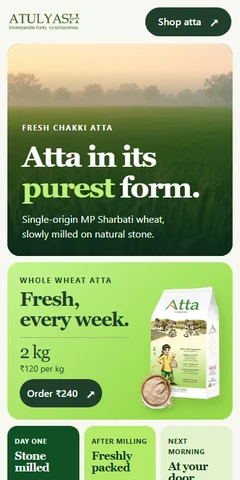
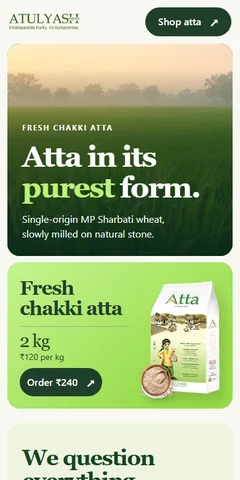
Simplify Bento Alt around the pack, Veer and delivery

Changed region(s): [[0.0292, 0.5625, 0.9917, 1.0], [0.7, 0.9062, 0.875, 1.0]]

diff --git a/opening/17-fresh-bento-alt/index.html b/opening/17-fresh-bento-alt/index.html
@@ -4,16 +4,22 @@
 <meta charset="utf-8"><meta name="viewport" content="width=device-width,initial-scale=1">
 <title>Fresh Bento Alt | Atulyash</title><link rel="icon" href="data:,"><link rel="stylesheet" href="style.css">
 </head><body><div class="shell">
-<header><a class="brand" href="#top"><img src="../shared/wordmark.png" alt="Atulyash"></a><nav aria-label="Main navigation"><a href="#making">Our process</a><a href="#story">Our story</a></nav><a class="order" href="#pack">Shop atta <span aria-hidden="true">↗</span></a></header>
+<header><a class="brand" href="#top"><img src="../shared/wordmark.png" alt="Atulyash"></a><nav aria-label="Main navigation"><a href="#making" onclick="document.getElementById('making').open = true">Our process</a><a href="#story">Our story</a></nav><a class="order" href="#pack">Shop atta <span aria-hidden="true">↗</span></a></header>
 <main id="top"><div class="opening">
 <section class="field"><img src="../11-fresh-bento/img/hero.webp" alt="Morning light over a green wheat field" fetchpriority="high"><div class="field-copy"><p class="label">Fresh chakki atta</p><h1>Atta in its<br><em>purest</em> form.</h1><p>Single-origin MP Sharbati wheat,<br>slowly milled on natural stone.</p></div></section>
-<section class="product" id="pack"><div class="product-title"><p class="label">Whole wheat atta</p><h2>Fresh, every week.</h2></div><div class="still"><img class="grain" src="../11-fresh-bento/img/bowl.webp" alt=""><img class="pouch" src="../shared/pack.webp" alt="Atulyash 2 kg atta pouch"></div><div class="buy"><div><strong>2 kg</strong><span>₹120 per kg</span></div><a class="order" href="https://wa.me/919818588996?text=Hi%2C%20I%20would%20like%20a%202%20kg%20pack%20of%20Atulyash%20atta.">Order ₹240 <span aria-hidden="true">↗</span></a></div></section>
+<section class="product" id="pack"><div class="product-title"><h2>Fresh chakki atta</h2></div><div class="still"><img class="grain" src="../11-fresh-bento/img/bowl.webp" alt=""><img class="pouch" src="../shared/pack.webp" alt="Atulyash 2 kg atta pouch"></div><div class="buy"><div><strong>2 kg</strong><span>₹120 per kg</span></div><a class="order" href="https://wa.me/919818588996?text=Hi%2C%20I%20would%20like%20a%202%20kg%20pack%20of%20Atulyash%20atta.">Order ₹240 <span aria-hidden="true">↗</span></a></div></section>
 </div>
-<section class="timeline" aria-label="Milling and delivery"><div><small>Day one</small><strong>Stone milled</strong></div><div><small>After milling</small><strong>Freshly packed</strong></div><div><small>Next morning</small><strong>At your door</strong></div></section>
 <section class="conversation" id="story" aria-labelledby="story-title">
-  <div class="manifesto"><p class="label">Our story</p><h2 id="story-title">We question everything.<br><em>Why not atta?</em></h2><p>We look closely at our cooking oil, our skincare, even our utensils. But the atta we bring home every week? We rarely ask which wheat went in, or when it was milled.</p></div>
+  <div class="manifesto"><h2 id="story-title">We question everything.<br><em>Why not atta?</em></h2><p>We look closely at the oil we cook with and the utensils we buy. When did we last ask which wheat went into our atta?</p></div>
   <div class="veer"><p lang="hi-Latn">Isse kisi ne poocha?<small lang="en">Did anyone ask about this one?</small></p><img src="../11-fresh-bento/img/veer.webp" alt="Veer giving a thumbs up" loading="lazy"></div>
 </section>
-<section id="making"><div class="section-head"><p class="label">Our process</p><h2>Inside the <em>chakki.</em></h2></div><div class="process"><article class="stone"><div><h3>Stone, turned slowly.</h3><p>Natural millstones grind the wheat in small batches.</p></div><img src="../11-fresh-bento/img/stone.webp" alt="Illustration of a stone chakki" loading="lazy"></article><article class="origin"><img src="../11-fresh-bento/img/sharbati.webp" alt="Green ears of wheat" loading="lazy"><div><h3>One origin.</h3><p>MP Sharbati wheat, cleaned in several stages.</p></div></article><article class="bran"><img src="../11-fresh-bento/img/milled.webp" alt="Wheat grains in a wooden spoon" loading="lazy"><div><h3>Chokar kept in.</h3><p>The bran stays in the atta. Nothing added.</p></div></article></div></section>
+<details id="making" class="mill-note">
+  <summary>From the mill to your door <span aria-hidden="true">+</span></summary>
+  <ol>
+    <li><strong>Milled the day before</strong><p>Single-origin MP Sharbati wheat is cleaned in several stages and milled slowly on natural stone. The chokar stays in.</p></li>
+    <li><strong>Packed after milling</strong><p>Small batches are packed with minimal handling.</p></li>
+    <li><strong>Delivered the next morning</strong><p>Our riders bring the fresh atta to homes in Delhi NCR.</p></li>
+  </ol>
+</details>
 <section class="delivery"><img class="rider" src="../11-fresh-bento/img/rider.webp" alt="Atulyash rider carrying a crate of atta" loading="lazy"><div><p class="label">Delhi NCR</p><h2>Our riders bring it home.</h2><p>Share your PIN code to check delivery to your home.</p></div><a class="order" href="https://wa.me/919818588996?text=Hi%2C%20can%20you%20check%20delivery%20to%20my%20PIN%20code%3F">Check delivery <span aria-hidden="true">↗</span></a></section>
 </main></div></body></html>

diff --git a/opening/index.html b/opening/index.html
@@ -37,7 +37,7 @@ a.card:hover,a.card:focus-visible{border-color:var(--ink);outline:none}
     <li><a class="card" href="14-golden-kitchen/"><span class="sw" aria-hidden="true"><i style="background:#ffbf0d"></i><i style="background:#163d24"></i><i style="background:#fffaf0"></i><i style="background:#fff3d8"></i></span><span><b>8. Golden Kitchen</b><span>A golden hero, kitchen films and an everyday-meals photo mosaic.</span></span></a></li>
     <li><a class="card" href="15-harvest-grove/"><span class="sw" aria-hidden="true"><i style="background:#365e12"></i><i style="background:#88a720"></i><i style="background:#fbf1db"></i><i style="background:#ffe7ac"></i></span><span><b>9. Harvest Grove</b><span>A green sweep, featured packs and a collage of wheat, milling and rotis.</span></span></a></li>
     <li><a class="card" href="16-pure-and-simple/"><span class="sw" aria-hidden="true"><i style="background:#ffffff"></i><i style="background:#88a720"></i><i style="background:#365e12"></i><i style="background:#eef0d6"></i></span><span><b>10. Pure and Simple</b><span>A clean white opening, roti photography and the three delivery steps.</span></span></a></li>
-    <li><a class="card" href="17-fresh-bento-alt/"><span class="sw" aria-hidden="true"><i style="background:#104421"></i><i style="background:#b4ea67"></i><i style="background:#e8e4d6"></i><i style="background:#f7f8f0"></i></span><span><b>11. Fresh Bento Alt</b><span>Fresh lime, a milling timeline and Veer’s kitchen question.</span></span></a></li>
+    <li><a class="card" href="17-fresh-bento-alt/"><span class="sw" aria-hidden="true"><i style="background:#104421"></i><i style="background:#b4ea67"></i><i style="background:#e8e4d6"></i><i style="background:#f7f8f0"></i></span><span><b>11. Fresh Bento Alt</b><span>A lime pack card and Veer’s kitchen question.</span></span></a></li>
   </ol>
 </div>
 </body>

diff --git a/opening/17-fresh-bento-alt/style.css b/opening/17-fresh-bento-alt/style.css
@@ -101,3 +101,21 @@ h1,h2,h3,.timeline strong {font-weight:700}
  .field:before {width:32px;height:32px}
 }
 @media(max-width:720px){.field:before{display:none}.field h1{font-size:clamp(2.85rem,12.4vw,3.9rem)}.field:after{background:linear-gradient(0deg,#0b281af2,#0d281aa8 55%,transparent 88%)}}
+
+.conversation {background:#edf4dc;border-radius:20px;gap:0;margin-block:clamp(24px,4vw,48px);overflow:hidden}
+.manifesto {background:transparent;color:#164321}
+.manifesto em {color:#366523}
+.veer {background:transparent;min-height:250px}
+.veer p {margin-inline:auto}
+.mill-note {border-block:1px solid #bcc9ae;margin:0 0 24px}
+.mill-note summary {display:flex;align-items:center;justify-content:space-between;min-height:64px;cursor:pointer;font:700 clamp(1.25rem,2.4vw,1.8rem) Georgia,serif;list-style:none}
+.mill-note summary::-webkit-details-marker {display:none}
+.mill-note summary span {font:normal 1.8rem/1 system-ui}
+.mill-note[open] summary span {transform:rotate(45deg)}
+.mill-note ol {margin:0;padding:0 0 24px;list-style:none;display:grid;grid-template-columns:repeat(3,1fr);gap:24px}
+.mill-note p {margin-top:6px}
+@media(max-width:720px){
+ .veer {min-height:155px}.veer p {margin:0 0 0 22px}
+ .manifesto {padding-bottom:14px}
+ .mill-note ol {grid-template-columns:1fr;gap:16px}
+}
